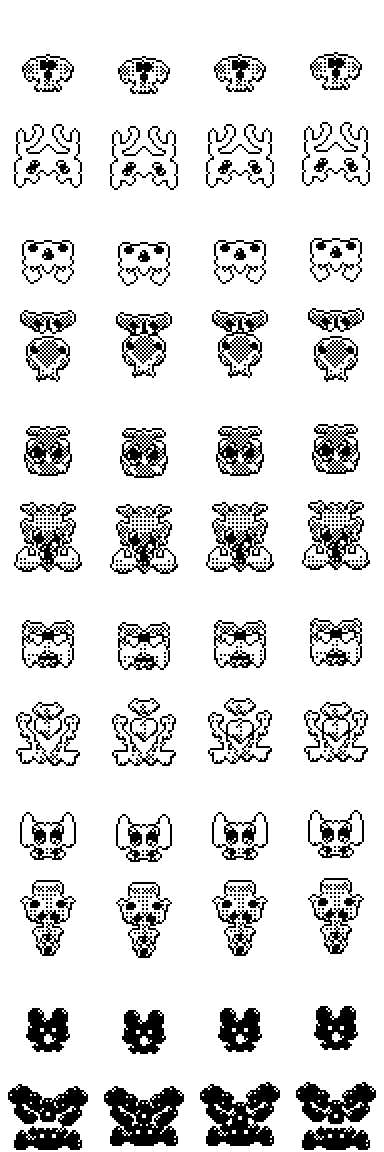
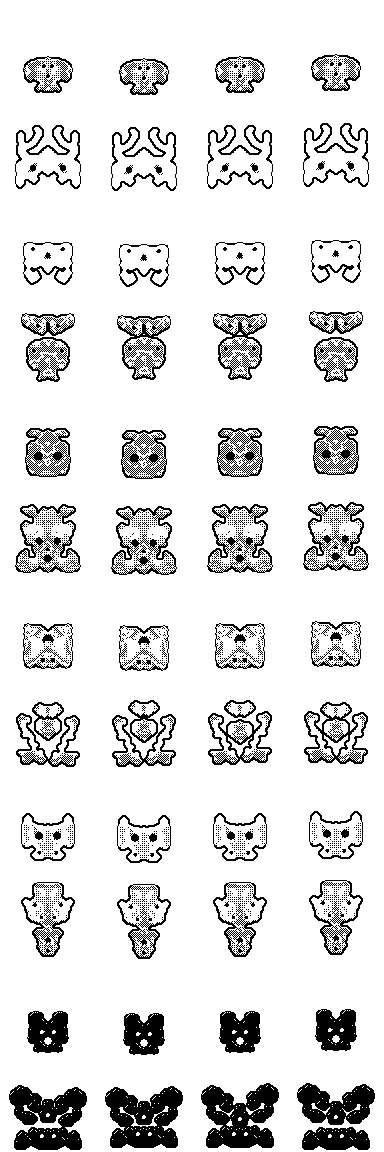
znomes: detailed render everywhere, room for the bigger battle sprites
The detail pass only fed the battle table, so menus, Kodex and title still
showed the old chunky creatures; the small table now renders at detail=2
(same size, twice the resolution). Battle cells grow to 132px because the
bolder outline pushed the tall species against the frame, and the battle
layout re-seats both fighters on their ground strips so the foe's feet are
no longer covered by the player's status plate.

diff --git a/tools/art_znomes.py b/tools/art_znomes.py
@@ -16,8 +16,9 @@ sys.path.insert(0, os.path.dirname(os.path.dirname(os.path.abspath(__file__))))
 
 from spritegen import render_frames
 
-SIZE = 96           # menus, kodex, title: 2px cells
-BATTLE_SIZE = 126   # battle: same creatures at 3x grid detail, 1px cells
+SIZE = 96           # menus, kodex, title: 2x grid detail, 1px cells
+DETAIL = 2
+BATTLE_SIZE = 132   # battle: same creatures at 3x grid detail, 1px cells
 BATTLE_DETAIL = 3
 FRAMES = 4
 
@@ -45,8 +46,10 @@ def _frames(seed, dark, knobs, size, cell=2, detail=1):
                          frames=FRAMES, dark=dark, **knobs)
 
 
-ZNOMES = [(name, lambda s=seed, d=dark, k=knobs: _frames(s, d, k, SIZE))
-          for name, seed, dark, knobs in SPECIES]
+ZNOMES = [
+    (name, lambda s=seed, d=dark, k=knobs: _frames(s, d, k, SIZE, 1, DETAIL))
+    for name, seed, dark, knobs in SPECIES
+]
 
 ZNOMES_BATTLE = [
     (name, lambda s=seed, d=dark, k=knobs: _frames(s, d, k, BATTLE_SIZE,

diff --git a/tools/gen_art.py b/tools/gen_art.py
@@ -7,7 +7,7 @@ Outputs (all committed so the game builds without Python):
     source/images/tiles-table-32-32.png
     source/images/actors-table-32-32.png
     source/images/znomes-table-96-96.png
-    source/images/znomesbig-table-126-126.png
+    source/images/znomesbig-table-132-132.png
     source/scripts/world/atlas.lua
 """
 
